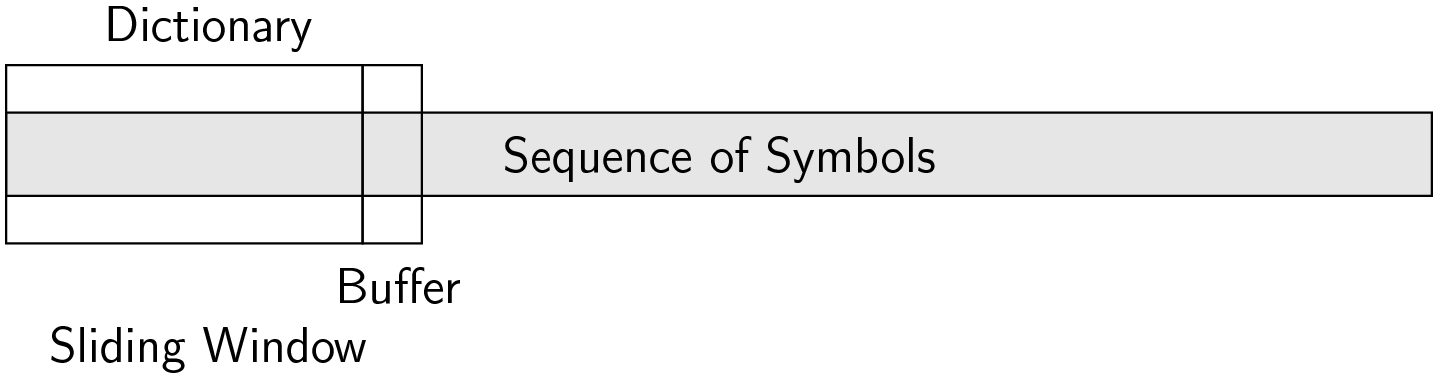
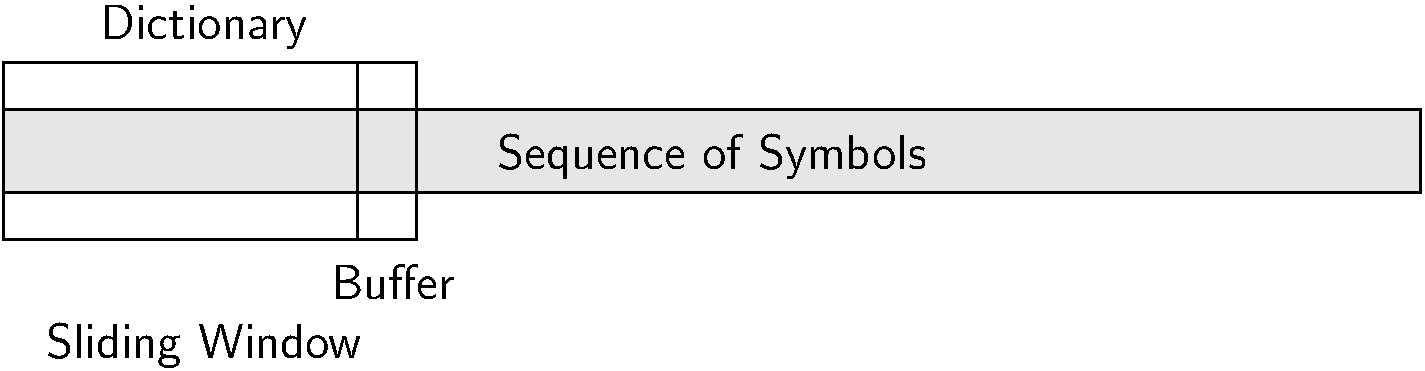
.

diff --git a/index.html b/index.html
@@ -26,10 +26,26 @@ class="ecrm-1200">Vicente Gonz</span><span
 class="ecrm-1200">á</span><span 
 class="ecrm-1200">lez Ruiz</span></div><br />
 <div class="date" ><span 
-class="ecrm-1200">May 13, 2019</span></div>
+class="ecrm-1200">December 31, 2019</span></div>
    </div>
+   <h3 class="likesectionHead"><a 
+ id="x1-1000"></a>Contents</h3>
+   <div class="tableofcontents">
+   <span class="sectionToc" >1 <a 
+href="#x1-20001" id="QQ2-1-2">History</a></span>
+<br />   <span class="sectionToc" >2 <a 
+href="#x1-30002" id="QQ2-1-3">Encoder</a></span>
+<br />   <span class="sectionToc" >3 <a 
+href="#x1-50003" id="QQ2-1-5">Decoder</a></span>
+<br />   <span class="sectionToc" >4 <a 
+href="#x1-70004" id="QQ2-1-7">Lab: LZSS</a></span>
+<br />   <span class="sectionToc" ><a 
+href="#Q1-1-9">References</a></span>
+   </div>
+<!--l. 6--><p class="noindent" >
+</p>
    <h3 class="sectionHead"><span class="titlemark">1   </span> <a 
- id="x1-10001"></a>History</h3>
+ id="x1-20001"></a>History</h3>
      <ul class="itemize1">
      <li class="itemize">Jacov Ziv and Abraham Lempel proposed the LZ77 algorithm in 1977 <span class="cite">[<a 
 href="#Xziv1977universal">2</a>]</span>.
@@ -47,9 +63,12 @@ href="https://en.wikipedia.org/wiki/ARJ" >ARJ</a>,
      [RAR](https://en.wikipedia.org/wiki/RAR_(ﬁle_format), <a 
 href="https://en.wikipedia.org/wiki/Gzip" >gzip</a> and <a 
 href="https://en.wikipedia.org/wiki/7z" >7z</a>.
+                                                                  
+
+                                                                  
      </li>
      <li class="itemize">LZ77 processes a sequence of symbols using the structure:</li></ul>
-<!--l. 35--><p class="noindent" > <div style="text-align:center;"> <img width=600 src="graphics/LZ77.png" /> </div> 
+<!--l. 28--><p class="noindent" ><div style="text-align:center;"> <img width=600 src="graphics/LZ77.svg" /> </div> 
 </p>
      <ul class="itemize1">
      <li class="itemize">The dictionary and the look-ahead buﬀer have a ﬁxed size and can be
@@ -57,22 +76,19 @@ href="https://en.wikipedia.org/wiki/7z" >7z</a>.
      coded. In each iteration, the input of new symbols to the buﬀer generates
      the output of the oldest ones, which become the newest symbols of the
      dictionary.</li></ul>
-                                                                  
-
-                                                                  
-<!--l. 47--><p class="noindent" >
+<!--l. 40--><p class="noindent" >
 </p>
    <h3 class="sectionHead"><span class="titlemark">2   </span> <a 
- id="x1-20002"></a>Encoder</h3>
-<!--l. 49--><p class="noindent" >
+ id="x1-30002"></a>Encoder</h3>
+<!--l. 42--><p class="noindent" >
      </p><ol  class="enumerate1" >
      <li 
-  class="enumerate" id="x1-2002x1">Let <!--l. 52--><math 
+  class="enumerate" id="x1-3002x1">Let <!--l. 45--><math 
  xmlns="http://www.w3.org/1998/Math/MathML"  
 display="inline" ><mrow 
 ><mi 
 >I</mi></mrow></math>
-     the length of the dictionary and <!--l. 52--><math 
+     the length of the dictionary and <!--l. 45--><math 
  xmlns="http://www.w3.org/1998/Math/MathML"  
 display="inline" ><mrow 
 ><mi 
@@ -80,7 +96,7 @@ display="inline" ><mrow
      the length of the buﬀer.
      </li>
      <li 
-  class="enumerate" id="x1-2004x2">Input the ﬁrst <!--l. 55--><math 
+  class="enumerate" id="x1-3004x2">Input the ﬁrst <!--l. 48--><math 
  xmlns="http://www.w3.org/1998/Math/MathML"  
 display="inline" ><mrow 
 ><mi 
@@ -88,26 +104,26 @@ display="inline" ><mrow
      symbols in the buﬀer.
      </li>
      <li 
-  class="enumerate" id="x1-2006x3">While the input is not exhausted:
-     <!--l. 59--><p class="noindent" >
+  class="enumerate" id="x1-3006x3">While the input is not exhausted:
+     <!--l. 52--><p class="noindent" >
          </p><ol  class="enumerate2" >
          <li 
-  class="enumerate" id="x1-2008x1">Let <!--l. 62--><math 
+  class="enumerate" id="x1-3008x1">Let <!--l. 55--><math 
  xmlns="http://www.w3.org/1998/Math/MathML"  
 display="inline" ><mrow 
 ><mi 
 >i</mi></mrow></math>
-         the position of the ﬁrst <!--l. 62--><math 
+         the position of the ﬁrst <!--l. 55--><math 
  xmlns="http://www.w3.org/1998/Math/MathML"  
 display="inline" ><mrow 
 ><mi 
 >j</mi></mrow></math>
-         symbols of the buﬀer in the dictionary, and <!--l. 63--><math 
+         symbols of the buﬀer in the dictionary, and <!--l. 56--><math 
  xmlns="http://www.w3.org/1998/Math/MathML"  
 display="inline" ><mrow 
 ><mi 
 >k</mi></mrow></math>
-         the symbol that makes that <!--l. 63--><math 
+         the symbol that makes that <!--l. 56--><math 
  xmlns="http://www.w3.org/1998/Math/MathML"  
 display="inline" ><mrow 
 ><mi 
@@ -115,7 +131,7 @@ display="inline" ><mrow
          can not be larger.
          </li>
          <li 
-  class="enumerate" id="x1-2010x2">Output <!--l. 66--><math 
+  class="enumerate" id="x1-3010x2">Output <!--l. 59--><math 
  xmlns="http://www.w3.org/1998/Math/MathML"  
 display="inline" ><mrow 
 ><mi 
@@ -124,7 +140,7 @@ display="inline" ><mrow
 >k</mi></mrow></math>.
          </li>
          <li 
-  class="enumerate" id="x1-2012x3">Input the next <!--l. 68--><math 
+  class="enumerate" id="x1-3012x3">Input the next <!--l. 61--><math 
  xmlns="http://www.w3.org/1998/Math/MathML"  
 display="inline" ><mrow 
 ><mi 
@@ -132,19 +148,22 @@ display="inline" ><mrow
 class="MathClass-bin">+</mo> <mn>1</mn></mrow></math>
          symbols in the buﬀer.</li></ol>
      </li></ol>
-<!--l. 72--><p class="noindent" >
+                                                                  
+
+                                                                  
+<!--l. 65--><p class="noindent" >
+</p>
+   <h3 class="likesectionHead"><a 
+ id="x1-40002"></a>Example</h3>
+<!--l. 66--><p class="noindent" ><div style="text-align:center;"> <img width=800 src="graphics/LZ77_encoding_example.svg" /> </div> 
+</p><!--l. 68--><p class="noindent" >
 </p>
    <h3 class="sectionHead"><span class="titlemark">3   </span> <a 
- id="x1-30003"></a>Example</h3>
-<!--l. 73--><p class="noindent" > <div style="text-align:center;"> <img width=800 src="graphics/LZ77_encoding_example.png" /> </div> 
-</p><!--l. 75--><p class="noindent" >
-</p>
-   <h3 class="sectionHead"><span class="titlemark">4   </span> <a 
- id="x1-40004"></a>Decoder</h3>
-<!--l. 77--><p class="noindent" >
+ id="x1-50003"></a>Decoder</h3>
+<!--l. 70--><p class="noindent" >
      </p><ol  class="enumerate1" >
      <li 
-  class="enumerate" id="x1-4002x1">While code-words <!--l. 80--><math 
+  class="enumerate" id="x1-5002x1">While code-words <!--l. 73--><math 
  xmlns="http://www.w3.org/1998/Math/MathML"  
 display="inline" ><mrow 
 ><mi 
@@ -152,18 +171,15 @@ display="inline" ><mrow
 >j</mi><mi 
 >k</mi></mrow></math>
      are input:
-     <!--l. 82--><p class="noindent" >
-                                                                  
-
-                                                                  
+     <!--l. 75--><p class="noindent" >
          </p><ol  class="enumerate2" >
          <li 
-  class="enumerate" id="x1-4004x1">Output the <!--l. 85--><math 
+  class="enumerate" id="x1-5004x1">Output the <!--l. 78--><math 
  xmlns="http://www.w3.org/1998/Math/MathML"  
 display="inline" ><mrow 
 ><mi 
 >j</mi></mrow></math>
-         symbols extracted from the position <!--l. 85--><math 
+         symbols extracted from the position <!--l. 78--><math 
  xmlns="http://www.w3.org/1998/Math/MathML"  
 display="inline" ><mrow 
 ><mi 
@@ -171,41 +187,41 @@ display="inline" ><mrow
          in the dictionary.
          </li>
          <li 
-  class="enumerate" id="x1-4006x2">Output <!--l. 88--><math 
+  class="enumerate" id="x1-5006x2">Output <!--l. 81--><math 
  xmlns="http://www.w3.org/1998/Math/MathML"  
 display="inline" ><mrow 
 ><mi 
 >k</mi></mrow></math>.
          </li>
          <li 
-  class="enumerate" id="x1-4008x3">Put all the decoded symbols in the beginnig of the buﬀer.</li></ol>
+  class="enumerate" id="x1-5008x3">Put all the decoded symbols in the beginnig of the buﬀer.</li></ol>
      </li></ol>
-<!--l. 94--><p class="noindent" >
+<!--l. 87--><p class="noindent" >
 </p>
-   <h4 class="subsectionHead"><span class="titlemark">4.1   </span> <a 
- id="x1-50004.1"></a>Example</h4>
-<!--l. 95--><p class="noindent" > <div style="text-align:center;"> <img width=500 src="graphics/LZ77_decoding_example.png" /> </div>  </p>
+   <h3 class="likesectionHead"><a 
+ id="x1-60003"></a>Example</h3>
+<!--l. 88--><p class="noindent" ><div style="text-align:center;"> <img width=500 src="graphics/LZ77_decoding_example.svg" /> </div>  </p>
      <ul class="itemize1">
-     <li class="itemize">Parameters <!--l. 99--><math 
+     <li class="itemize">Parameters <!--l. 92--><math 
  xmlns="http://www.w3.org/1998/Math/MathML"  
 display="inline" ><mrow 
 ><mi 
 >I</mi></mrow></math>
-     and <!--l. 99--><math 
+     and <!--l. 92--><math 
  xmlns="http://www.w3.org/1998/Math/MathML"  
 display="inline" ><mrow 
 ><mi 
 >J</mi></mrow></math>
      control the performance of the algorithm. They should be large enough to
      guarantee the matching of long strings, but should be small in order to
-     reduce the number of bits of the code-words <!--l. 102--><math 
+     reduce the number of bits of the code-words <!--l. 95--><math 
  xmlns="http://www.w3.org/1998/Math/MathML"  
 display="inline" ><mrow 
 ><mi 
 >i</mi><mi 
 >j</mi><mi 
 >k</mi></mrow></math>.
-     Typical sizes are: <!--l. 102--><math 
+     Typical sizes are: <!--l. 95--><math 
  xmlns="http://www.w3.org/1998/Math/MathML"  
 display="inline" ><mrow 
 ><msub><mrow 
@@ -217,7 +233,7 @@ class="MathClass-open">(</mo><mrow><mi
 class="MathClass-close">)</mo></mrow> <mo 
 class="MathClass-rel">=</mo> <mn>1</mn><mn>2</mn><mo 
 class="MathClass-punc">.</mo><mn>0</mn></mrow></math>
-     and <!--l. 103--><math 
+     and <!--l. 96--><math 
  xmlns="http://www.w3.org/1998/Math/MathML"  
 display="inline" ><mrow 
 ><msub><mrow 
@@ -229,16 +245,19 @@ class="MathClass-open">(</mo><mrow><mi
 class="MathClass-close">)</mo></mrow> <mo 
 class="MathClass-rel">=</mo> <mn>4</mn><mo 
 class="MathClass-punc">.</mo><mn>0</mn></mrow></math>.</li></ul>
-<!--l. 106--><p class="noindent" >
+                                                                  
+
+                                                                  
+<!--l. 99--><p class="noindent" >
 </p>
-   <h3 class="sectionHead"><span class="titlemark">5   </span> <a 
- id="x1-60005"></a>Lab: LZSS</h3>
-<!--l. 107--><p class="noindent" ><a 
+   <h3 class="sectionHead"><span class="titlemark">4   </span> <a 
+ id="x1-70004"></a>Lab: LZSS</h3>
+<!--l. 100--><p class="noindent" ><a 
 href="https://nbviewer.jupyter.org/github/vicente-gonzalez-ruiz/LZ77/blob/master/LZSS.ipynb" >IPython notebook</a>
 </p><!--l. 1--><p class="noindent" >
 </p>
    <h3 class="likesectionHead"><a 
- id="x1-70005"></a>References</h3>
+ id="x1-80004"></a>References</h3>
 <!--l. 1--><p class="noindent" >
    </p><div class="thebibliography">
    <p class="bibitem" ><span class="biblabel">
@@ -247,9 +266,6 @@ href="https://nbviewer.jupyter.org/github/vicente-gonzalez-ruiz/LZ77/blob/master
 href="https://scholar.google.es/scholar?hl=es&as_sdt=0%2C5&q=Data+compression+via+textual+substitution&btnG=" >Data  compression  via
    textual substitution</a>. <span 
 class="ecti-1000">Journal of the ACM (JACM)</span>, 29(4):928–951, 1982.
-                                                                  
-
-                                                                  
    </p>
    <p class="bibitem" ><span class="biblabel">
  [2]<span class="bibsp">   </span></span><a 
@@ -260,6 +276,8 @@ class="ecti-1000">IEEE Transactions on information theory</span>, 23(3):337–34
    1977.
 </p>
    </div>
+<a 
+ id="Q1-1-9"></a>
     
 </body> 
 </html>

diff --git a/index.css b/index.css
@@ -87,7 +87,9 @@ td.td01{ padding-left:0pt; padding-right:5pt; }
 td.td10{ padding-left:5pt; padding-right:0pt; }
 td.td11{ padding-left:5pt; padding-right:5pt; }
 table[rules] {border-left:solid black 0.4pt; border-right:solid black 0.4pt; }
-.hline hr, .cline hr{ height : 1px; margin:0px; }
+.hline hr, .cline hr{ height : 0px; margin:0px; }
+.hline td, .cline td{ padding: 0; }
+.hline hr, .cline hr{border:none;border-top:1px solid black;}
 .tabbing-right {text-align:right;}
 span.TEX {letter-spacing: -0.125em; }
 span.TEX span.E{ position:relative;top:0.5ex;left:-0.0417em;}
@@ -97,8 +99,9 @@ span.LATEX span.TEX{ position:relative; left: -0.4em; }
 div.float, div.figure {margin-left: auto; margin-right: auto;}
 div.float img {text-align:center;}
 div.figure img {text-align:center;}
-.marginpar {width:20%; float:right; text-align:left; margin-left:auto; margin-top:0.5em; font-size:85%; text-decoration:underline;}
-.marginpar p{margin-top:0.4em; margin-bottom:0.4em;}
+.marginpar,.reversemarginpar {width:20%; float:right; text-align:left; margin-left:auto; margin-top:0.5em; font-size:85%; text-decoration:underline;}
+.marginpar p,.reversemarginpar p{margin-top:0.4em; margin-bottom:0.4em;}
+.reversemarginpar{float:left;}
 .equation td{text-align:center; vertical-align:middle; }
 td.eq-no{ width:5%; }
 table.equation { width:100%; } 
@@ -158,11 +161,16 @@ td.td01{ padding-left:0pt; padding-right:5pt; }
 td.td10{ padding-left:5pt; padding-right:0pt; }
 td.td11{ padding-left:5pt; padding-right:5pt; }
 table[rules] {border-left:solid black 0.4pt; border-right:solid black 0.4pt; }
-.hline hr, .cline hr{ height : 1px; margin:0px; }
+.hline hr, .cline hr{ height : 0px; margin:0px; }
+.hline td, .cline td{ padding: 0; }
+.hline hr, .cline hr{border:none;border-top:1px solid black;}
 .supertabular {text-align:center}
 .lstlisting .label{margin-right:0.5em; }
 div.lstlisting{font-family: monospace; white-space: nowrap; margin-top:0.5em; margin-bottom:0.5em; }
 div.lstinputlisting{ font-family: monospace; white-space: nowrap; }
 .lstinputlisting .label{margin-right:0.5em;}
+table[rules] {border-left:solid black 0.4pt; border-right:solid black 0.4pt; }
+div.longtable{text-align:center;}
+table.longtable{margin-left:auto; margin-right: auto;}
 /* end css.sty */
 

diff --git a/texput.tex b/texput.tex
@@ -1,16 +1,9 @@
-%%% Local Variables:
-%%% mode: latex
-%%% TeX-master: "<none>"
-%%% End:
-
 \title{Lempel and Ziv 1977 (LZ77)}
-
 \author{Vicente González Ruiz}
-
 \maketitle
+\tableofcontents
 
 \section{History}
-
 \begin{itemize}
 \tightlist
 \item
@@ -32,7 +25,7 @@
   LZ77 processes a sequence of symbols using the structure:
 \end{itemize}
 
-\imgw{600}{graphics/LZ77.png}
+\myfig{graphics/LZ77}{6cm}{600}
 
 \begin{itemize}
 \tightlist
@@ -69,8 +62,8 @@
   \end{enumerate}
 \end{enumerate}
 
-\section{Example}
-\imgw{800}{graphics/LZ77_encoding_example.png}
+\section*{Example}
+\myfig{graphics/LZ77_encoding_example}{8cm}{800}
 
 \section{Decoder}
 
@@ -91,8 +84,8 @@
   \end{enumerate}
 \end{enumerate}
 
-\subsection{Example}
-\imgw{500}{graphics/LZ77_decoding_example.png}
+\section*{Example}
+\myfig{graphics/LZ77_decoding_example}{5cm}{500}
 \begin{itemize}
 \tightlist
 \item
